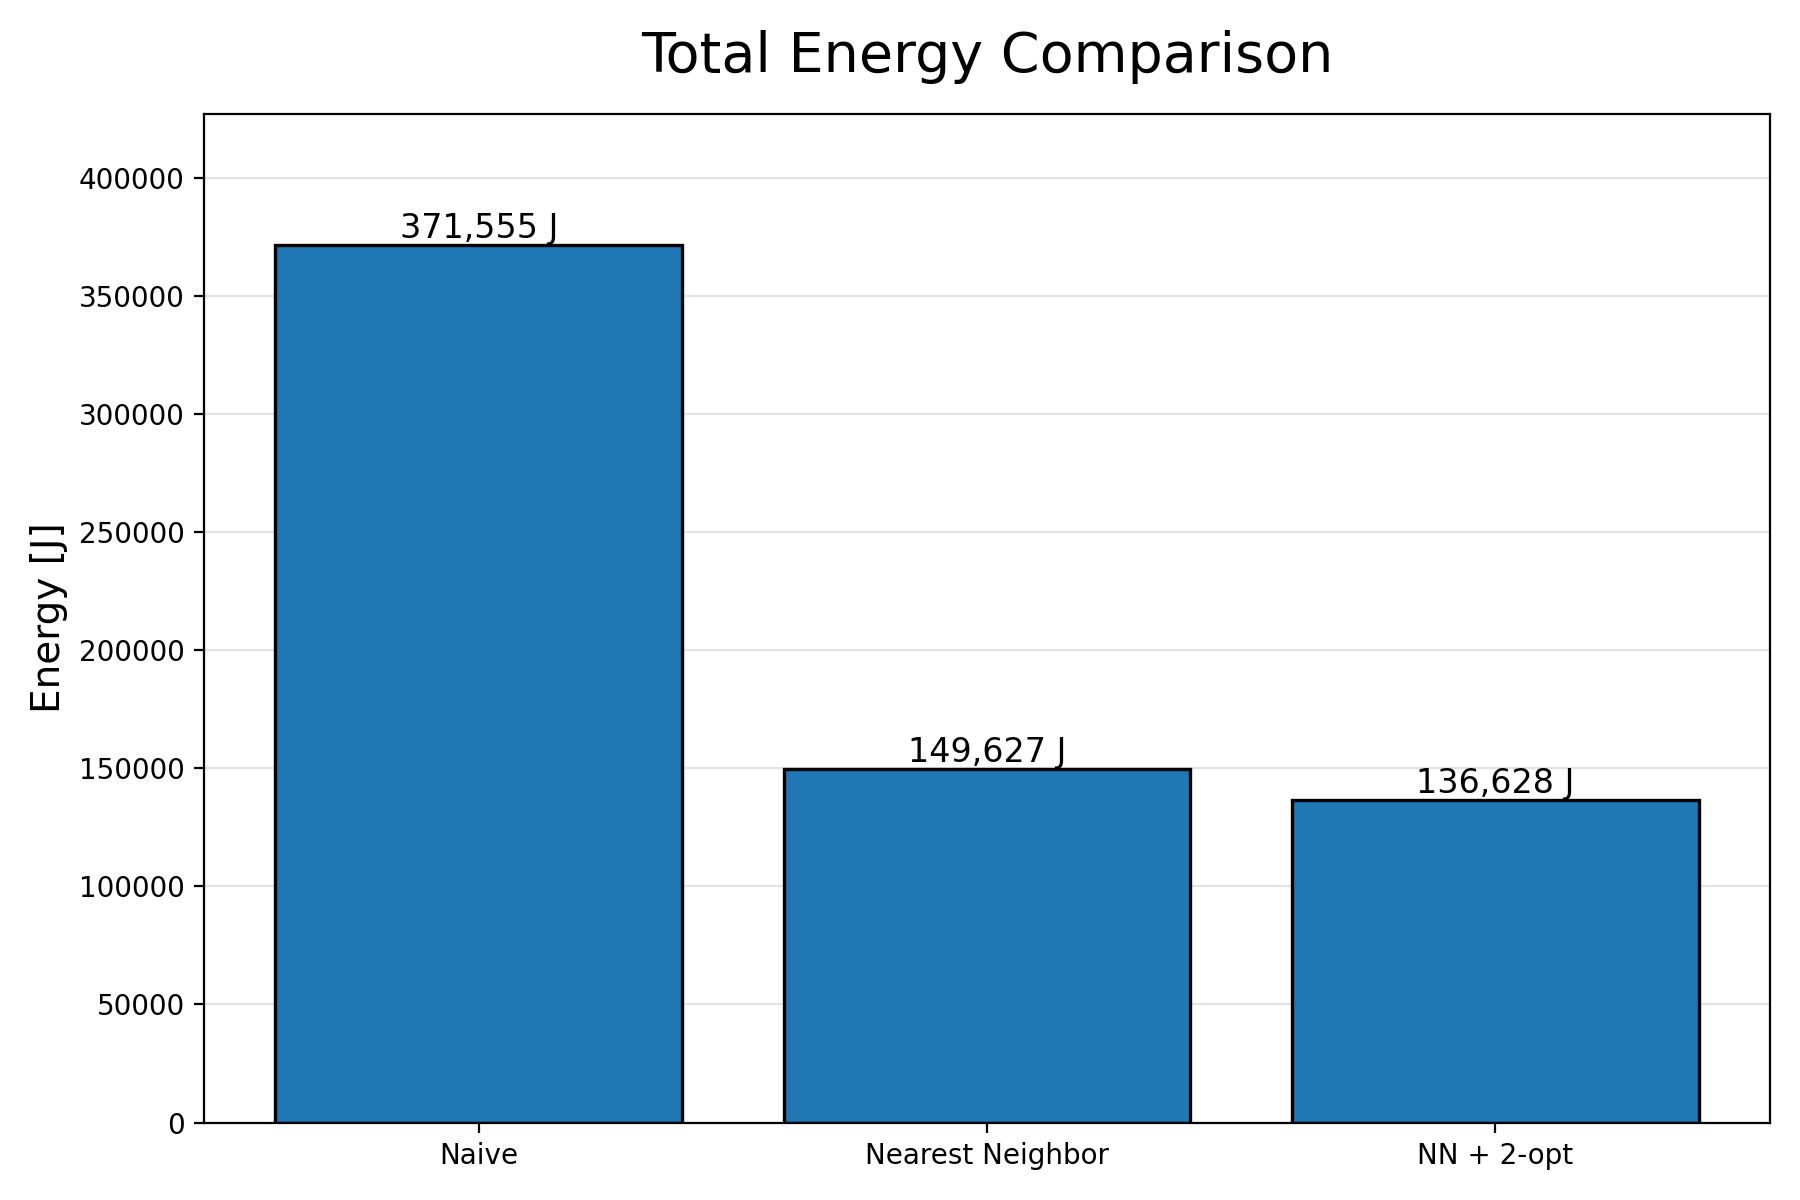
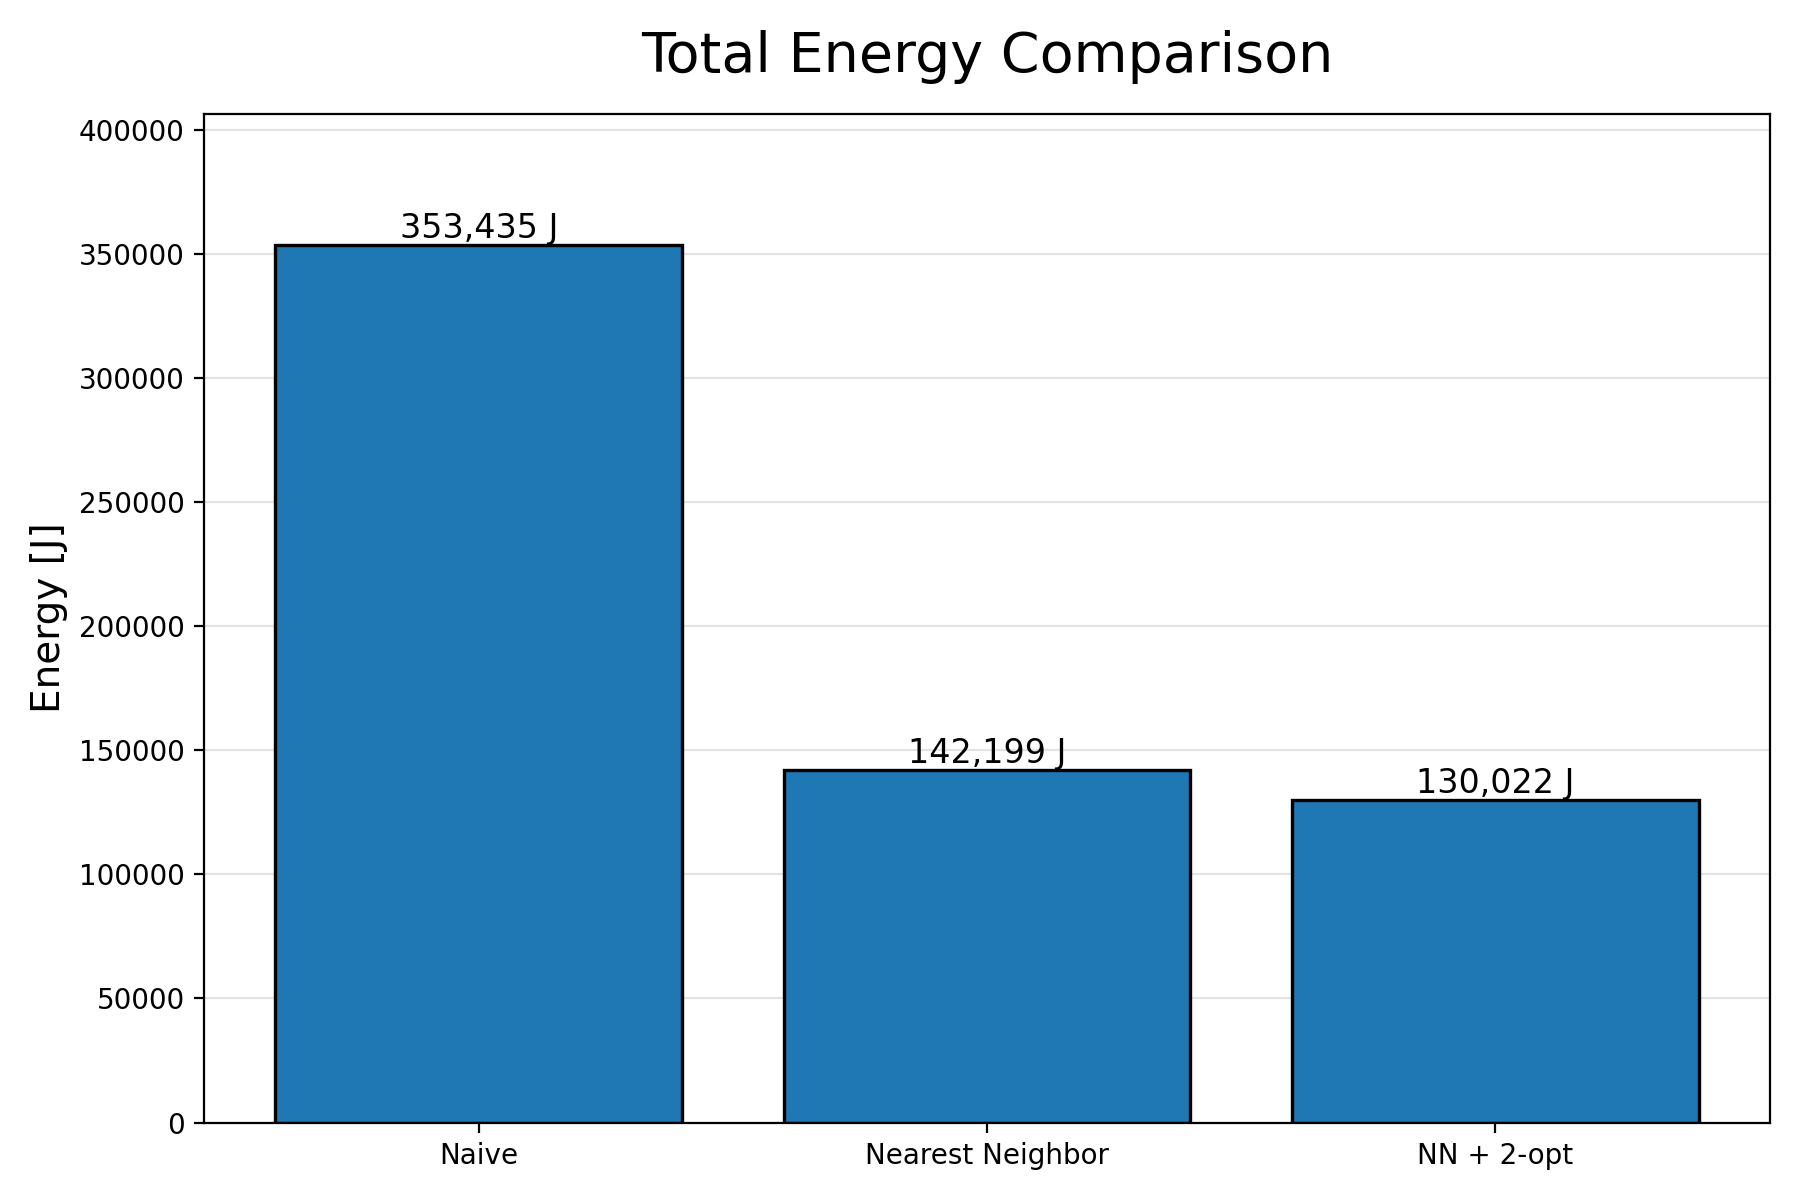
improve route map

diff --git a/pathfinding.py b/pathfinding.py
@@ -2,7 +2,6 @@ from __future__ import annotations
 
 import heapq
 import math
-from typing import Dict, List, Optional, Tuple
 
 import numpy as np
 
@@ -15,6 +14,10 @@ GridNode = tuple[int, int]
 class AStarPlanner:
     """
     Grid-based A* planner for obstacle-aware pairwise waypoint routing.
+
+    Important behavior:
+    - If two waypoints have clear line of sight, we use the straight segment directly.
+    - Only if a no-fly zone blocks that segment do we fall back to A* on the grid.
     """
 
     def __init__(
@@ -52,13 +55,110 @@ class AStarPlanner:
         x, y = self.node_to_point(node)
         return any(obs.contains_point(x, y) for obs in self.obstacles)
 
-    def validate_waypoints(self, waypoints):
+    def validate_waypoints(self, waypoints: np.ndarray) -> None:
         for idx, (x, y) in enumerate(waypoints):
             for obs in self.obstacles:
                 if obs.contains_point(float(x), float(y)):
                     raise ValueError(
                         f"Waypoint {idx} at ({x:.1f}, {y:.1f}) lies inside a no-fly zone."
                     )
+
+    # ---------- exact line-of-sight geometry ----------
+    @staticmethod
+    def _orientation(
+        a: tuple[float, float],
+        b: tuple[float, float],
+        c: tuple[float, float],
+    ) -> float:
+        return (b[0] - a[0]) * (c[1] - a[1]) - (b[1] - a[1]) * (c[0] - a[0])
+
+    @staticmethod
+    def _on_segment(
+        a: tuple[float, float],
+        b: tuple[float, float],
+        c: tuple[float, float],
+        eps: float = 1e-9,
+    ) -> bool:
+        return (
+            min(a[0], b[0]) - eps <= c[0] <= max(a[0], b[0]) + eps
+            and min(a[1], b[1]) - eps <= c[1] <= max(a[1], b[1]) + eps
+        )
+
+    @classmethod
+    def _segments_intersect(
+        cls,
+        p1: tuple[float, float],
+        p2: tuple[float, float],
+        q1: tuple[float, float],
+        q2: tuple[float, float],
+        eps: float = 1e-9,
+    ) -> bool:
+        o1 = cls._orientation(p1, p2, q1)
+        o2 = cls._orientation(p1, p2, q2)
+        o3 = cls._orientation(q1, q2, p1)
+        o4 = cls._orientation(q1, q2, p2)
+
+        # Proper intersection
+        if ((o1 > eps and o2 < -eps) or (o1 < -eps and o2 > eps)) and (
+            (o3 > eps and o4 < -eps) or (o3 < -eps and o4 > eps)
+        ):
+            return True
+
+        # Collinear / touching cases
+        if abs(o1) <= eps and cls._on_segment(p1, p2, q1, eps):
+            return True
+        if abs(o2) <= eps and cls._on_segment(p1, p2, q2, eps):
+            return True
+        if abs(o3) <= eps and cls._on_segment(q1, q2, p1, eps):
+            return True
+        if abs(o4) <= eps and cls._on_segment(q1, q2, p2, eps):
+            return True
+
+        return False
+
+    def line_intersects_rectangle(
+        self,
+        A: np.ndarray,
+        B: np.ndarray,
+        obs: RectangleZone,
+    ) -> bool:
+        """
+        True if segment AB intersects or touches the padded rectangle.
+        """
+        x1, y1 = float(A[0]), float(A[1])
+        x2, y2 = float(B[0]), float(B[1])
+
+        xmin = obs.xmin - obs.pad
+        xmax = obs.xmax + obs.pad
+        ymin = obs.ymin - obs.pad
+        ymax = obs.ymax + obs.pad
+
+        # Endpoint inside padded rectangle
+        if xmin <= x1 <= xmax and ymin <= y1 <= ymax:
+            return True
+        if xmin <= x2 <= xmax and ymin <= y2 <= ymax:
+            return True
+
+        p1 = (x1, y1)
+        p2 = (x2, y2)
+
+        edges = [
+            ((xmin, ymin), (xmax, ymin)),
+            ((xmax, ymin), (xmax, ymax)),
+            ((xmax, ymax), (xmin, ymax)),
+            ((xmin, ymax), (xmin, ymin)),
+        ]
+
+        for q1, q2 in edges:
+            if self._segments_intersect(p1, p2, q1, q2):
+                return True
+
+        return False
+
+    def has_line_of_sight(self, A: np.ndarray, B: np.ndarray) -> bool:
+        return not any(
+            self.line_intersects_rectangle(A, B, obs) for obs in self.obstacles
+        )
 
     # ---------- A* helpers ----------
     def neighbors(self, node: GridNode) -> list[tuple[GridNode, float]]:
@@ -77,7 +177,11 @@ class AStarPlanner:
             if self.is_blocked_node(nxt):
                 continue
 
-            step_cost = self.grid_step * math.sqrt(2.0) if dx != 0 and dy != 0 else self.grid_step
+            step_cost = (
+                self.grid_step * math.sqrt(2.0)
+                if dx != 0 and dy != 0
+                else self.grid_step
+            )
             out.append((nxt, step_cost))
         return out
 
@@ -113,7 +217,9 @@ class AStarPlanner:
 
         came_from: dict[GridNode, GridNode] = {}
         g_score: dict[GridNode, float] = {start: 0.0}
-        f_score: dict[GridNode, float] = {start: self.heuristic(start, goal)}
+        f_score: dict[GridNode, float] = {
+            start: self.heuristic(start, goal) * self.grid_step
+        }
 
         while open_heap:
             _, current = heapq.heappop(open_heap)
@@ -150,8 +256,9 @@ class AStarPlanner:
     ) -> tuple[np.ndarray, dict[tuple[int, int], list[np.ndarray]]]:
         """
         Returns:
-            distance_matrix[i,j] = obstacle-aware A* path length
-            path_lookup[(i,j)] = list of points along the A* polyline
+            distance_matrix[i, j] = straight-line distance if visible,
+                                    otherwise obstacle-aware A* path length
+            path_lookup[(i, j)] = list of points along the chosen path
         """
         self.validate_waypoints(waypoints)
 
@@ -164,10 +271,19 @@ class AStarPlanner:
                 if i == j:
                     dist_matrix[i, j] = 0.0
                     path_lookup[(i, j)] = [waypoints[i].copy()]
+                    continue
+
+                A = np.asarray(waypoints[i], dtype=float)
+                B = np.asarray(waypoints[j], dtype=float)
+
+                if self.has_line_of_sight(A, B):
+                    path = [A.copy(), B.copy()]
+                    dist = float(np.linalg.norm(B - A))
                 else:
-                    path = self.astar(waypoints[i], waypoints[j])
+                    path = self.astar(A, B)
                     dist = self.polyline_length(path)
-                    dist_matrix[i, j] = dist
-                    path_lookup[(i, j)] = path
+
+                dist_matrix[i, j] = dist
+                path_lookup[(i, j)] = path
 
         return dist_matrix, path_lookup
